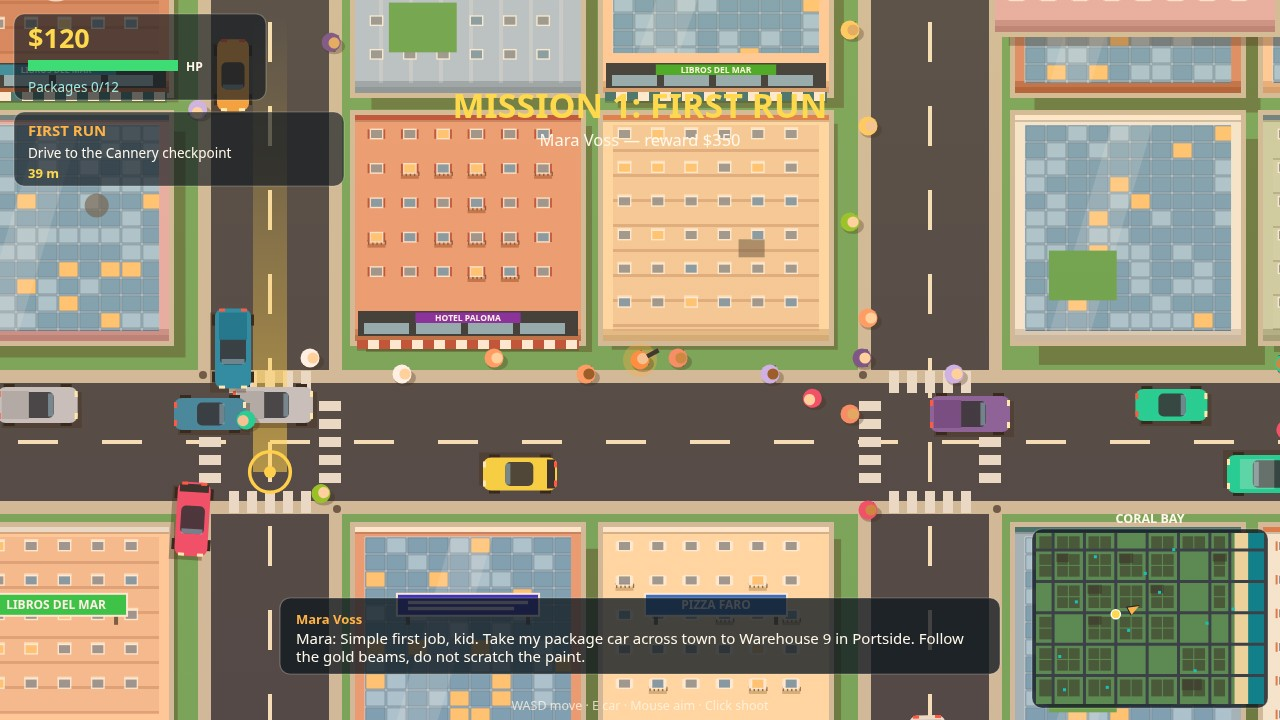
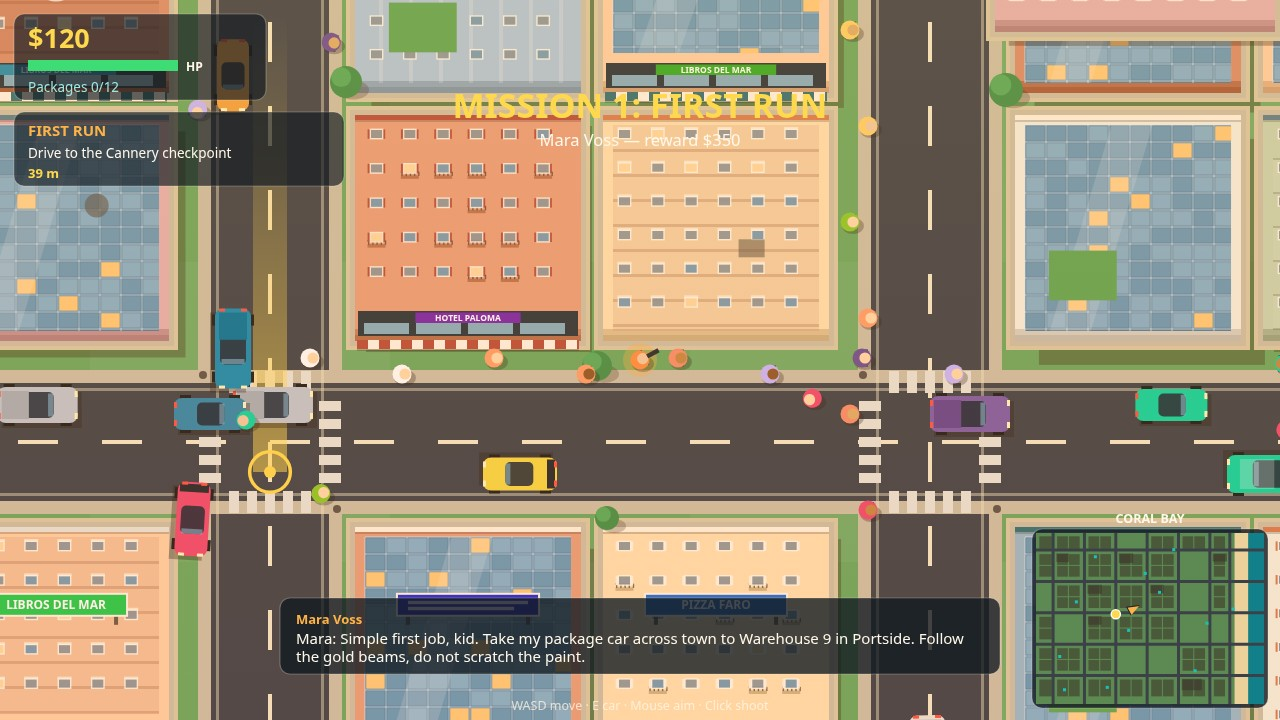
Maximization pass: street trees, clustered glass lighting, police livery + light-bar glow, park detail, road edge lines, coastal night title

diff --git a/game/src/render.js b/game/src/render.js
@@ -33,6 +33,20 @@ export function createRenderer(canvas) {
 
   function drawGround(state, l, t, r, b) {
     rect(l, t, r - l, b - t, PALETTE.grass);
+    // Mower stripes: a 300px checker of slightly lighter grass.
+    ctx.fillStyle = 'rgba(255,255,255,0.05)';
+    {
+      const gs = 300;
+      const x0 = Math.floor(l / gs) * gs;
+      const y0 = Math.floor(t / gs) * gs;
+      for (let gx = x0; gx < r; gx += gs) {
+        for (let gy = y0; gy < b; gy += gs) {
+          const cx = Math.floor(gx / gs);
+          const cy = Math.floor(gy / gs);
+          if ((cx + cy) % 2 === 0) ctx.fillRect(gx, gy, gs, gs);
+        }
+      }
+    }
     // Beach sand and the animated sea along the east edge.
     if (r > BEACH_X) {
       rect(Math.max(l, BEACH_X), t, r - Math.max(l, BEACH_X), b - t, PALETTE.sand);
@@ -62,6 +76,28 @@ export function createRenderer(canvas) {
       ctx.moveTo(park.x + 20, park.y + park.h / 2);
       ctx.lineTo(park.x + park.w - 20, park.y + park.h / 2);
       ctx.stroke();
+      ctx.beginPath();
+      ctx.moveTo(park.x + park.w / 2, park.y + 20);
+      ctx.lineTo(park.x + park.w / 2, park.y + park.h - 20);
+      ctx.stroke();
+      // Two benches at hash-derived spots inside the park.
+      for (let bi = 0; bi < 2; bi += 1) {
+        const bh = winHash(park.x + bi * 137, park.y + bi * 89);
+        const bx = park.x + 28 + (bh % Math.max(1, park.w - 90));
+        const by = park.y + 28 + ((bh >>> 5) % Math.max(1, park.h - 70));
+        rect(bx, by, 28, 10, '#8a6b42');
+        rect(bx, by + 3, 28, 1.6, 'rgba(0,0,0,0.35)');
+        rect(bx, by + 6.5, 28, 1.6, 'rgba(0,0,0,0.35)');
+      }
+      // A pond in one corner of every other park.
+      if (winHash(park.x, park.y) % 2 === 0) {
+        const px2 = park.x + park.w - 64;
+        const py2 = park.y + 54;
+        ctx.fillStyle = '#e8e4da';
+        ctx.beginPath(); ctx.ellipse(px2, py2, 42, 25, 0, 0, Math.PI * 2); ctx.fill();
+        ctx.fillStyle = '#3f8fae';
+        ctx.beginPath(); ctx.ellipse(px2, py2, 37, 20, 0, 0, Math.PI * 2); ctx.fill();
+      }
     }
     for (const lot of state.city.lots) {
       if (lot.x + lot.w < l || lot.x > r || lot.y + lot.h < t || lot.y > b) continue;
@@ -84,6 +120,18 @@ export function createRenderer(canvas) {
       if (hy + ROAD_W / 2 < t || hy - ROAD_W / 2 > b) continue;
       rect(l, hy - ROAD_W / 2 - 13, r - l, ROAD_W + 26, PALETTE.sidewalk);
       rect(l, hy - ROAD_W / 2, r - l, ROAD_W, PALETTE.asphalt);
+    }
+    // Edge lines along every road.
+    ctx.fillStyle = 'rgba(244,233,200,0.45)';
+    for (const vx of V_ROADS) {
+      if (vx + ROAD_W / 2 < l || vx - ROAD_W / 2 > r) continue;
+      ctx.fillRect(vx - ROAD_W / 2 + 5, t, 3, b - t);
+      ctx.fillRect(vx + ROAD_W / 2 - 8, t, 3, b - t);
+    }
+    for (const hy of H_ROADS) {
+      if (hy + ROAD_W / 2 < t || hy - ROAD_W / 2 > b) continue;
+      ctx.fillRect(l, hy - ROAD_W / 2 + 5, r - l, 3);
+      ctx.fillRect(l, hy + ROAD_W / 2 - 8, r - l, 3);
     }
     // Lane dashes.
     ctx.fillStyle = PALETTE.lane;
@@ -163,6 +211,7 @@ export function createRenderer(canvas) {
       if (bd.x + bd.w < l - 60 || bd.x > r + 60 || bd.y + bd.h < t - 60 || bd.y > b + 60) continue;
       const sh = 6 + bd.height * 0.16;
       rect(bd.x + sh, bd.y + sh, bd.w, bd.h, 'rgba(60,35,20,0.35)');
+      rect(bd.x - 9, bd.y - 9, bd.w + 18, bd.h + 18, PALETTE.plaza);
       rect(bd.x - 5, bd.y - 5, bd.w + 10, bd.h + 10, PALETTE.sidewalk);
       // Two-tone body: deeper base, lighter upper field.
       rect(bd.x, bd.y, bd.w, bd.h, shade(bd.color, -16));
@@ -187,8 +236,10 @@ export function createRenderer(canvas) {
             const ph = Math.min(py - 2.5, fy + fh - gy - 1);
             if (pw < 4 || ph < 4) continue;
             const wh = winHash(gx, gy);
-            const lit = night ? wh % 100 < 34 : wh % 100 < 9;
-            ctx.fillStyle = lit ? (night ? '#ffd873' : '#ffca7a') : (wh % 3 === 0 ? 'rgba(190,228,248,0.75)' : 'rgba(140,195,225,0.55)');
+            const group = Math.floor((gx - fx) / 63);
+            const gh = winHash(fx + group * 63, gy);
+            const lit = night ? (gh % 100 < 30 && wh % 100 < 80) : wh % 100 < 7;
+            ctx.fillStyle = lit ? (night ? '#ffd873' : '#ffca7a') : (night ? (wh % 2 === 0 ? 'rgba(120,170,200,0.28)' : 'rgba(90,140,175,0.22)') : (wh % 2 === 0 ? 'rgba(190,228,248,0.5)' : 'rgba(150,200,230,0.38)'));
             ctx.fillRect(gx + 1.2, gy + 1.2, pw, ph);
           }
         }
@@ -236,7 +287,7 @@ export function createRenderer(canvas) {
             const wx = bd.x + 16 + cx * ((bd.w - 26) / cols);
             const wy = bd.y + 15 + cy * ((bd.h - shopH - 24) / rows);
             const wh = winHash(wx, wy);
-            const lit = night ? wh % 100 < 33 : wh % 100 < 11;
+            const lit = night ? wh % 100 < 33 : wh % 100 < 8;
             if (style === 'stucco' && bd.balcony && cy > 0 && wh % 3 === 0) {
               // Balcony slab with little rails under this window.
               rect(wx - 3.5, wy + 11, 18, 3.4, shade(bd.color, -30));
@@ -250,7 +301,7 @@ export function createRenderer(canvas) {
             }
             if (style === 'brick') rect(wx - 1.6, wy - 3, 14.2, 2.6, 'rgba(255,244,225,0.75)'); // lintel
             rect(wx - 1.4, wy - 1.4, 13.8, 10.8, 'rgba(255,250,238,0.85)'); // frame
-            ctx.fillStyle = lit ? (night ? '#ffd873' : '#ffca7a') : (wh % 4 === 0 ? 'rgba(96,140,168,0.85)' : 'rgba(40,60,80,0.5)');
+            ctx.fillStyle = lit ? (night ? '#ffd873' : '#ffd9a0') : (wh % 4 === 0 ? 'rgba(96,140,168,0.85)' : 'rgba(40,60,80,0.5)');
             ctx.fillRect(wx, wy, 11, 8);
           }
         }
@@ -391,15 +442,18 @@ export function createRenderer(canvas) {
     if (car.role === 'police') {
       ctx.fillStyle = '#1d2733';
       ctx.fillRect(-6, -m.width / 2, 20, m.width);
+      ctx.fillRect(m.length / 2 - 15, -m.width / 2 + 2, 13, m.width - 4);
+      ctx.fillRect(-m.length / 2 + 2, -m.width / 2 + 2, 13, m.width - 4);
       // Light bar: red and blue alternate with world time.
       const phase = Math.floor(state.time * 6) % 2 === 0;
+      circle(2, 0, 17, phase ? 'rgba(255,59,48,0.30)' : 'rgba(58,123,255,0.30)');
       ctx.fillStyle = phase ? '#ff3b30' : '#3a7bff';
       ctx.fillRect(-4, -8, 9, 16);
       ctx.fillStyle = phase ? '#3a7bff' : '#ff3b30';
       ctx.fillRect(6, -8, 9, 16);
       ctx.fillStyle = '#ffffff';
-      ctx.font = `bold 8px ${FONT}`; ctx.textAlign = 'center';
-      ctx.fillText('PD', 2, 3);
+      ctx.font = `bold 10px ${FONT}`; ctx.textAlign = 'center';
+      ctx.fillText('PD', 2, 3.5);
     }
     // Cabin and glass.
     ctx.fillStyle = 'rgba(24,38,54,0.88)';
@@ -408,6 +462,18 @@ export function createRenderer(canvas) {
     ctx.fill();
     ctx.fillStyle = 'rgba(150,210,240,0.5)';
     ctx.fillRect(m.length * 0.13, -m.width * 0.32, 5, m.width * 0.64);
+    if (car.role === 'police') {
+      // Re-draw the light bar on top of the cabin so it stays readable.
+      const phase2 = Math.floor(state.time * 6) % 2 === 0;
+      circle(2, 0, 17, phase2 ? 'rgba(255,59,48,0.30)' : 'rgba(58,123,255,0.30)');
+      ctx.fillStyle = phase2 ? '#ff3b30' : '#3a7bff';
+      ctx.fillRect(-4, -8, 9, 16);
+      ctx.fillStyle = phase2 ? '#3a7bff' : '#ff3b30';
+      ctx.fillRect(6, -8, 9, 16);
+      ctx.fillStyle = '#ffffff';
+      ctx.font = `bold 10px ${FONT}`; ctx.textAlign = 'center';
+      ctx.fillText('PD', 5, 3.5);
+    }
     if (m.kind === 'pickup') { ctx.fillStyle = shade(car.color === '#3a3a3a' ? '#666666' : car.color, -24); ctx.fillRect(-m.length / 2 + 4, -m.width / 2 + 4, m.length * 0.34, m.width - 8); }
     if (m.kind === 'van') { ctx.fillStyle = 'rgba(255,255,255,0.25)'; ctx.fillRect(-m.length * 0.05, -m.width / 2 + 4, m.length * 0.4, m.width - 8); }
     if (m.kind === 'sports') { ctx.fillStyle = '#20242a'; ctx.fillRect(-m.length / 2 + 2, -m.width / 2 + 2, 8, m.width - 4); }

diff --git a/game/src/city.js b/game/src/city.js
@@ -152,6 +152,32 @@ export function generateCity(rng) {
     });
   }
 
+  // Street trees along every road, from position hashes only (no rng draws,
+  // appended last so the existing layout never shifts).
+  for (const vx of V_ROADS) {
+    for (const side of [-1, 1]) {
+      const x = vx + side * (ROAD_W / 2 + 17);
+      for (let y = 140; y <= WORLD.height - 140; y += 235) {
+        if (H_ROADS.some((hy) => Math.abs(y - hy) < 170)) continue;
+        const h = hash2(x, y);
+        if (h % 100 < 30) continue;
+        trees.push({ x, y: y + ((h % 41) - 20), r: 12 + ((h >>> 5) % 6), palm: x > 3350 });
+      }
+    }
+  }
+  for (const hy of H_ROADS) {
+    for (const side of [-1, 1]) {
+      const y = hy + side * (ROAD_W / 2 + 17);
+      for (let x = 140; x <= WORLD.width - 140; x += 235) {
+        if (x > BEACH_X - 40) continue;
+        if (V_ROADS.some((vx) => Math.abs(x - vx) < 170)) continue;
+        const h = hash2(x, y);
+        if (h % 100 < 30) continue;
+        trees.push({ x: x + ((h % 41) - 20), y, r: 12 + ((h >>> 5) % 6), palm: x > 3350 });
+      }
+    }
+  }
+
   return { buildings, parks, lots, trees, lights, landmarks, props };
 }
 

diff --git a/game/src/shots.js b/game/src/shots.js
@@ -156,11 +156,11 @@ function sceneTitle(seed) {
   state.phase = PHASE_NIGHT;
   const input = scriptInput();
   const p = state.player;
-  p.x = 2150; p.y = 1080;
-  state.camera.x = 2150; state.camera.y = 900;
+  p.x = 4120; p.y = 1240;
+  state.camera.x = 3980; state.camera.y = 1080;
   runSteps(state, input, 360, null);
   state.phase = PHASE_NIGHT;
-  state.camera.x = 2150; state.camera.y = 900;
+  state.camera.x = 3980; state.camera.y = 1080;
   return { state, screen: SCREEN_TITLE };
 }
 
